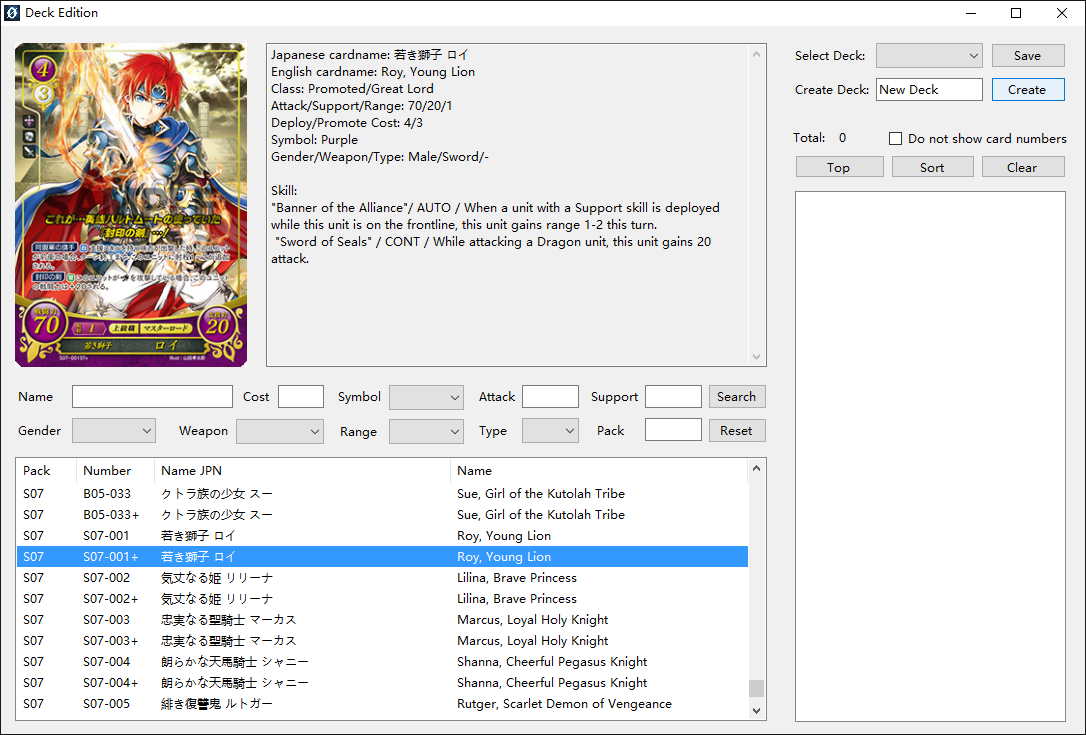
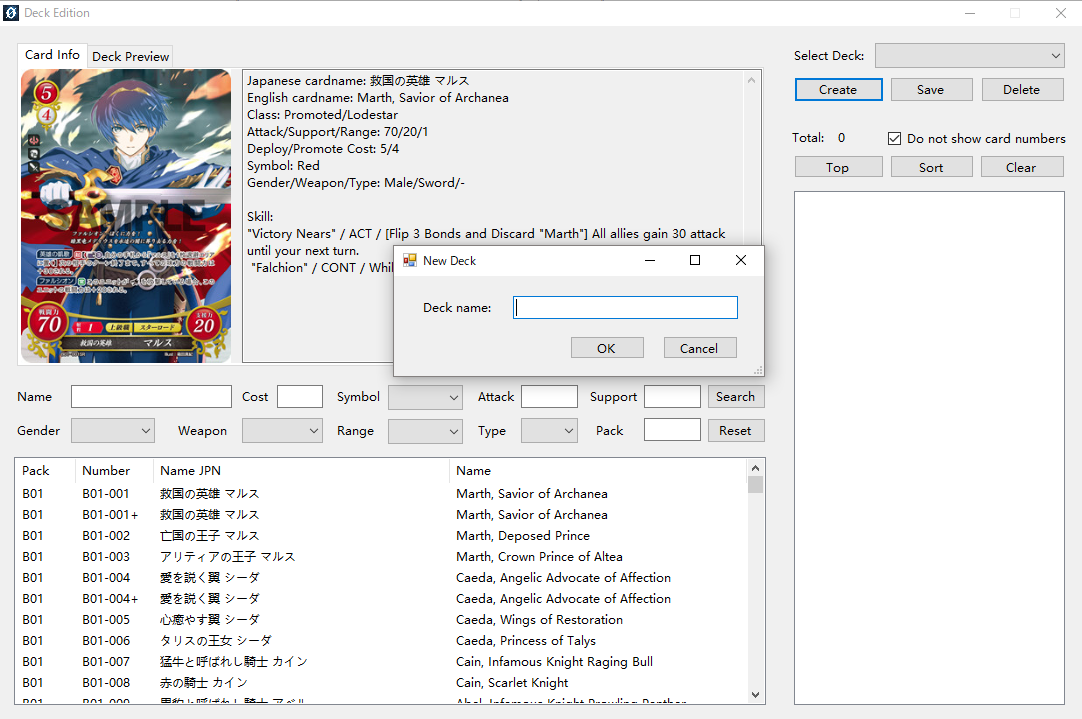
Update deckedit

diff --git a/deckedit.md b/deckedit.md
@@ -2,7 +2,7 @@
 
 1. Click on "Other" → "Deck Edition" in the menu bar.
  
-2. Choose an existing deck or create a new one by type a deck name and click on "Create".
+2. Choose an existing deck or click on "Create" to create a new deck.
  ![](deck.png)
 
 3. Search for the cards you want in the left part of the window.
@@ -10,14 +10,14 @@
 4. Double click on a card to add it to your deck.
 
 5. When adjusting your deck, you may right click on a card to operate it, or double click on it to remove one card.
+
+6. You can switch tag on the left top area to enter preview mode so that you may check contents of your deck in pictures. Long press the card to show it in a larger size.  
 ![](deck2.png)
 
-6. You can switch tag on the left up area to enter viewing mode so that you may check cards in your deck in pictures. Press the card to see its big picture.  
+7. In preview mode, you may left click on a card to add one or right click it to remove one.
 
-7. When viewing your deck, you may right click on a card to add one or right click it to remove one.
+8. In preview mode, right click on the blank space of the preview panel to open menu for more displaying options.
 
-8. When viewing your deck, right click the blank space to open menu. Click "change alighment style" to change the alighment style. Click on "preview on a new window" to view the deck in a new window.
-
-9. When your deck is done, you may click on "Sort" button to sort cards, and then click on "Top" button to make your 1C main character to the top.
+9. You may click on "Sort" button to make the contents in a clearer order, and then click on "Top" button to move your 1C main character card to the top.
 
 10. We prepared 10 Starter Decks (S01-S10) for testing.
